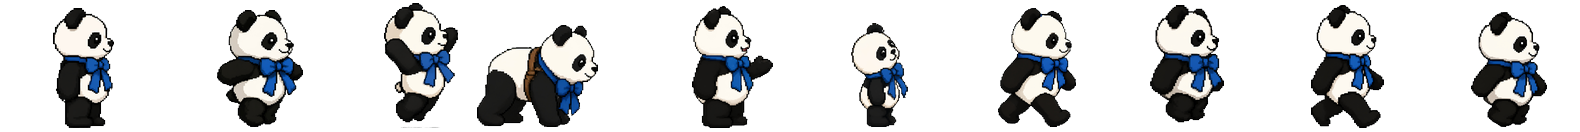
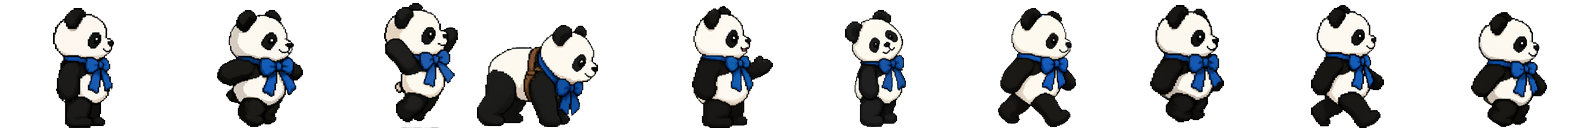
fix: 熊貓歪頭那格少了一隻耳朵，並加上壞格自動偵測
tilt 第一次產出來只有一隻耳朵、左半邊的黑眼圈也不見了，整顆頭變成白球。
姿勢描述補上「只歪 25 度、不是轉過去也不是背面、兩隻耳朵和兩個黑眼圈
都要看得見」，換三個 seed 重產，採用 9102。

真正的問題是這個是眼睛抓到的、不是工具抓到的，所以 build_character.py
加了 warn_outliers()：比對每一格跟基準格的用色比例（暗色/亮色/彩色各占多少），
差太多就示警並印出重產指令。

門檻是量出來的不是猜的：熊貓十格裡正常格跟基準格的差異最大 0.060
（pull 四足、jump 騰空這種姿勢差很多的也才 0.052~0.060），壞掉的 tilt 是 0.154，
中間有 2.5 倍間隔，取 0.10。雙向回歸測過：壞格會被抓出來、好格安靜通過。

抓得到「某個部位整個不見了」這類；抓不到「畫錯但用色正常」，那種還是要用眼睛看。

gen_sprites.py 加 --seed 參數，補單格時可以換一個骰。

Claude-Session: https://claude.ai/code/session_015KdV9rzzxhngxWRbvtQ9iL

Changed region(s): [[0.5272, 0.0909, 0.5892, 0.9697]]

diff --git a/tools/build_character.py b/tools/build_character.py
@@ -85,6 +85,49 @@ def figures(path, names, air, ref):
     return out
 
 
+# 門檻是量出來的，不是猜的：熊貓十格裡正常格跟基準格的差異最大 0.060
+# （pull 四足、jump 騰空這種姿勢差很多的也才 0.052~0.060），
+# 而少了一隻耳朵和一個黑眼圈的壞格是 0.154。中間有 2.5 倍間隔，取 0.10。
+OUTLIER = 0.10
+
+
+def warn_outliers(prepared, ref_frame):
+    """比對各格的用色比例，跟基準格差太多就示警。
+
+    會抓到的典型壞格：某個部位整個不見了（熊貓的 tilt 少了一隻耳朵和一個
+    黑眼圈，黑色比例就掉了一截）、或是顏色整個跑掉。抓不到的是「畫錯但
+    用色正常」，那種還是要用眼睛看——但這一層能擋掉最明顯的那類。
+    """
+    def profile(img):
+        a = np.array(img)
+        m = a[..., 3] > 120
+        if m.sum() < 50:
+            return None
+        px = a[..., :3][m].astype(float)
+        lum = px.mean(axis=1)
+        # 暗色／亮色／彩色各占多少，對「少了一塊黑」這種事很敏感
+        return np.array([(lum < 70).mean(), (lum > 190).mean(),
+                         (px.max(axis=1) - px.min(axis=1) > 40).mean()])
+
+    base = next((profile(p["img"]) for p in prepared if p["name"] == ref_frame), None)
+    if base is None:
+        return
+    bad = []
+    for p in prepared:
+        pr = profile(p["img"])
+        if pr is None:
+            continue
+        d = float(np.abs(pr - base).sum())
+        if d > OUTLIER:
+            bad.append((p["name"], d))
+    if bad:
+        print("\n⚠ 這幾格的用色跟基準格差很多，建議打開來看（可能少畫了東西）：")
+        for n, d in sorted(bad, key=lambda x: -x[1]):
+            print("   %-11s 差異 %.2f" % (n, d))
+        print("   重產單格：python3 tools/gen_sprites.py <角色> %s --seed <換一個>"
+              % " ".join(n for n, _ in bad))
+
+
 def build(sources, dst, ref_frame, target_h=None):
     dst = dst if os.path.isabs(dst) else os.path.join(ROOT, dst)
     all_figs, ref_h = [], None
@@ -134,6 +177,8 @@ def build(sources, dst, ref_frame, target_h=None):
                              h=round(f["body_h"] * s), scale=s))
         print("  %-11s 縮放 %.3f → 身高 %3d px  頭高 %3d px"
               % (f["name"], s, round(f["body_h"] * s), round(f.get("head_h", 0) * s)))
+
+    warn_outliers(prepared, ref_frame)
 
     PADX = int(max(max(p["ax"] for p in prepared),
                    max(p["img"].width - p["ax"] for p in prepared))) + 4

diff --git a/tools/gen_sprites.py b/tools/gen_sprites.py
@@ -90,8 +90,11 @@ PANDA_POSES = {
            "to the sides for balance.",
  "talk":   "The plush panda stands upright and gestures as if speaking politely, one short arm "
            "raised and held forward, head tilted slightly up, mouth open a little.",
- "tilt":   "The plush panda stands upright and tilts its head far to one side in curiosity, "
-           "arms still at its sides.",
+ "tilt":   "The plush panda stands upright and tilts its head to one side in curiosity, "
+           "arms still at its sides. The head is only tilted about 25 degrees — it is NOT "
+           "turned away and NOT seen from behind. BOTH round black ears stay clearly visible "
+           "on top of the head, and BOTH black eye patches stay clearly visible on the face. "
+           "The face keeps its two eyes, its nose and its stitched smile.",
  "pull":   "The plush panda is down on ALL FOURS like a real panda, leaning forward and "
            "straining to pull something heavy behind it, a simple brown leather harness around "
            "its shoulders, head low and determined.",
@@ -221,4 +224,10 @@ def build(who, only=None, seed=6001, w=768, h=1024):
 
 
 if __name__ == "__main__":
-    build(sys.argv[1], only=sys.argv[2:] or None)
+    args = sys.argv[1:]
+    seed = 6001
+    if "--seed" in args:
+        i = args.index("--seed")
+        seed = int(args[i + 1])
+        del args[i:i + 2]
+    build(args[0], only=args[1:] or None, seed=seed)

diff --git a/assets/character/panda/README.md b/assets/character/panda/README.md
@@ -28,6 +28,19 @@ python3 tools/build_character.py panda_frames # 合併
 ```
 
 姿勢描述在 `tools/gen_sprites.py` 的 `PANDA_POSES`。
+補單格時可以用 `--seed` 換一個骰（同一個 seed 重產結果一樣）。
+
+## 壞格會自動被抓出來
+
+`tilt` 第一次產出來**少了一隻耳朵和一個黑眼圈**，整顆頭變成白球。
+這是眼睛抓到的、不是工具抓到的——所以 `build_character.py` 加了自動檢查：
+比對每一格跟基準格的用色比例，差太多就示警。
+
+門檻是**量出來的**：熊貓十格裡，正常格跟基準格的差異最大 0.060
+（`pull` 四足、`jump` 騰空這種姿勢差很多的也才 0.052~0.060），
+而壞掉的 `tilt` 是 0.154。中間有 2.5 倍間隔，所以取 0.10。
+
+抓得到「某個部位整個不見了」；抓不到「畫錯但用色正常」，那種還是要看。
 
 > 熊貓沒有膚色，所以 `build_character.py` 量不到臉。它會自動改用
 > **頭部區域的最大寬度**當對齊基準——圓頭角色這個值很穩，實測十格全部
